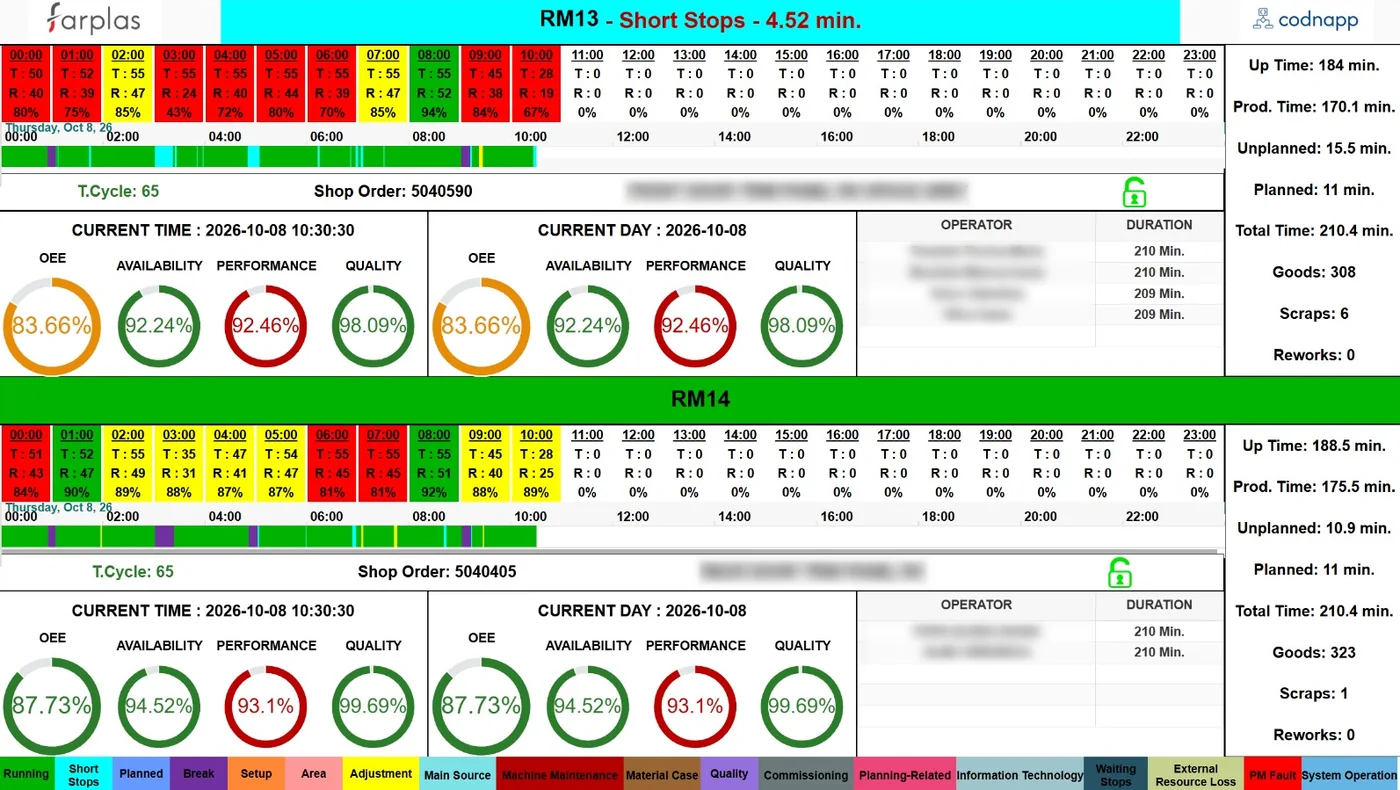
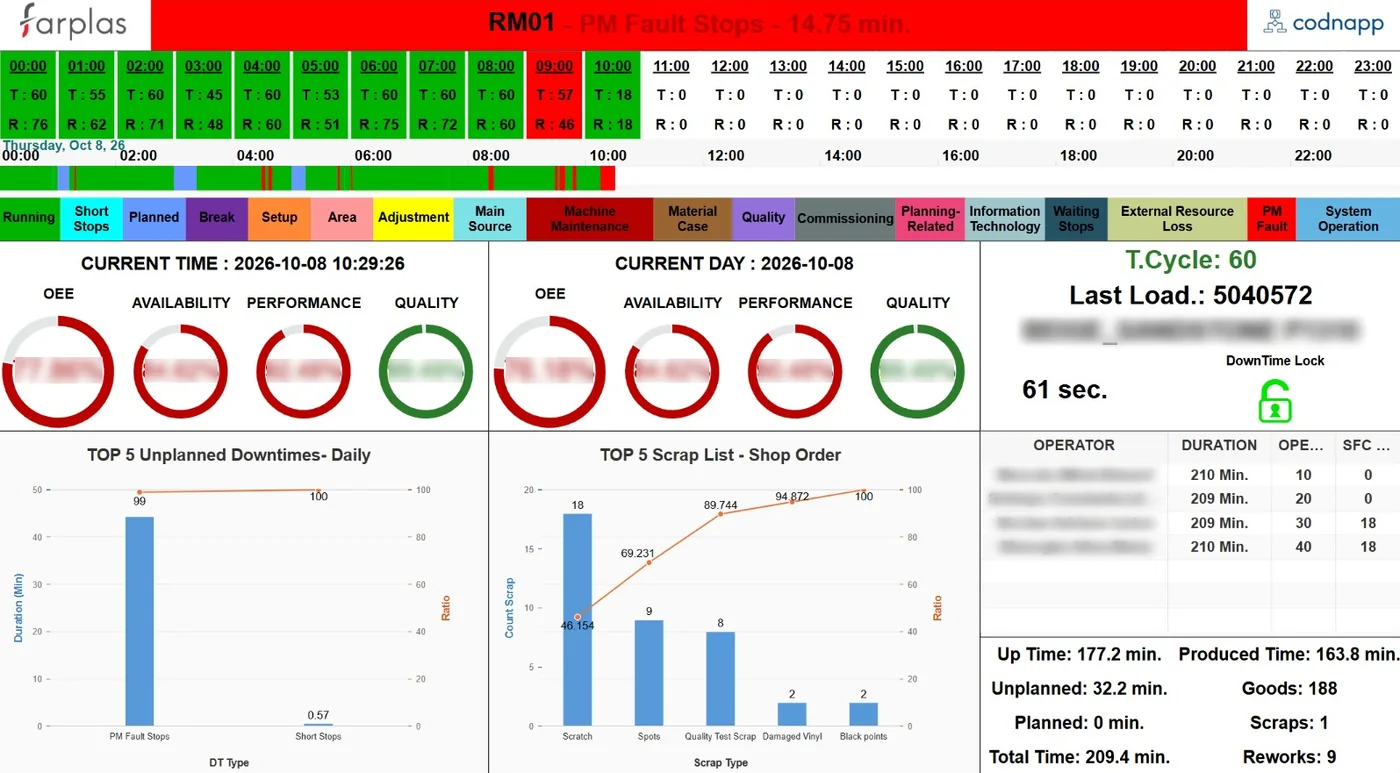
Add files via upload

diff --git a/_site/index.html b/_site/index.html
@@ -87,15 +87,15 @@
     <h2 id="musteri-baslik" class="sr-only">Müşterilerimiz</h2>
     <ul class="clients-list">
       
-      <li><img src="/assets/img/musteriler/aromsa.png" alt="Aromsa" width="151" height="38" style="--h:38px" loading="lazy"></li>
-      
       <li><img src="/assets/img/musteriler/farplas.png" alt="Farplas" width="125" height="44" style="--h:44px" loading="lazy"></li>
       
       <li><img src="/assets/img/musteriler/farplas-smart.png" alt="Farplas & Smart Solutions" width="158" height="35" style="--h:35px" loading="lazy"></li>
       
+      <li><img src="/assets/img/musteriler/polibak.png" alt="Polibak" width="121" height="47" style="--h:47px" loading="lazy"></li>
+      
       <li><img src="/assets/img/musteriler/kucukoglu.png" alt="Küçükoğlu Holding" width="167" height="33" style="--h:33px" loading="lazy"></li>
       
-      <li><img src="/assets/img/musteriler/polibak.png" alt="Polibak" width="121" height="47" style="--h:47px" loading="lazy"></li>
+      <li><img src="/assets/img/musteriler/aromsa.png" alt="Aromsa" width="151" height="38" style="--h:38px" loading="lazy"></li>
       
     </ul>
   </div>
@@ -126,7 +126,7 @@
             </figure>
             
             <figure class="slide" role="group" aria-roledescription="slide" aria-label="2 / 4">
-              <img src="/assets/img/urunler/codnapp-core-2.webp" alt="codnappCore ekranı: iki makinenin saatlik üretim, OEE ve operatör özeti" width="1400" height="790" loading="lazy">
+              <img src="/assets/img/urunler/codnapp-core-2.webp" alt="codnappCore ekranı: makine panosu, saatlik üretim, duruş ve hurda grafikleri" width="1400" height="773" loading="lazy">
             </figure>
             
             <figure class="slide" role="group" aria-roledescription="slide" aria-label="3 / 4">
@@ -272,7 +272,7 @@
       <p class="contact-item"><span class="contact-label">Telefon</span><a href="tel:+905457324208">+90 545 732 42 08</a></p>
       
       
-      <p class="contact-item"><span class="contact-label">LinkedIn</span><a href="https://www.linkedin.com/company/codnapp/" rel="noopener" target="_blank">linkedin.com/company/codnapp</a></p>
+      <p class="contact-item"><span class="contact-label">LinkedIn</span><a class="icon-link" href="https://www.linkedin.com/company/codnapp/" rel="noopener" target="_blank" aria-label="Codnapp LinkedIn sayfası"><svg viewBox="0 0 24 24" width="20" height="20" aria-hidden="true" focusable="false"><path fill="currentColor" d="M20.447 20.452h-3.554v-5.569c0-1.328-.027-3.037-1.852-3.037-1.853 0-2.136 1.445-2.136 2.939v5.667H9.351V9h3.414v1.561h.046c.477-.9 1.637-1.85 3.37-1.85 3.601 0 4.267 2.37 4.267 5.455v6.286zM5.337 7.433a2.062 2.062 0 0 1-2.063-2.065 2.064 2.064 0 1 1 2.063 2.065zm1.782 13.019H3.555V9h3.564v11.452zM22.225 0H1.771C.792 0 0 .774 0 1.729v20.542C0 23.227.792 24 1.771 24h20.451C23.2 24 24 23.227 24 22.271V1.729C24 .774 23.2 0 22.222 0h.003z"/></svg></a></p>
       
     </div>
   </div>

diff --git a/_site/assets/css/main.css b/_site/assets/css/main.css
@@ -166,6 +166,9 @@ h1{font-size:clamp(2.6rem,5.4vw,4.1rem);line-height:1.02}
 .person-links{margin:auto 0 0;padding-top:1rem}
 .icon-link{display:inline-flex;align-items:center;justify-content:center;width:40px;height:40px;border-radius:var(--radius);background:var(--brand);color:#fff;transition:background-color .15s ease}
 .icon-link:hover{background:var(--brand-mid)}
+.contact .icon-link{background:var(--sky);color:var(--brand-night)}
+.contact .icon-link:hover{background:#94CBFF;color:var(--brand-night)}
+.contact-item .icon-link{justify-self:start}
 
 /* ---- Ürünler ---- */
 .products{display:grid;gap:clamp(2rem,5vw,3.5rem)}
@@ -198,7 +201,7 @@ h1{font-size:clamp(2.6rem,5.4vw,4.1rem);line-height:1.02}
 .carousel-dot{position:relative;width:24px;height:24px;padding:0;border:0;background:none;cursor:pointer}
 .carousel-dot::before{content:"";position:absolute;inset:7px;border-radius:50%;background:#A9BCD0;transition:background-color .15s ease,transform .15s ease}
 .carousel-dot.is-active::before{background:var(--brand);transform:scale(1.15)}
-.media-logo{background:#fff;border:1px solid var(--line);aspect-ratio:16/8}
+.media-logo{background:#fff;border:1px solid var(--line);aspect-ratio:16/6.5}
 .media-logo img{width:min(78%,292px)}
 .media-mobil{aspect-ratio:auto;display:flex;align-items:center;justify-content:center;gap:.9rem}
 .media-mobil img{flex:1 1 0;min-width:0;width:100%;max-width:190px;height:auto;max-height:none;border-radius:16px;box-shadow:0 14px 36px rgba(5,41,77,.28)}
@@ -210,13 +213,13 @@ h1{font-size:clamp(2.6rem,5.4vw,4.1rem);line-height:1.02}
 .tech-grid img{display:block;width:var(--w);max-width:100%;height:auto;opacity:.9}
 
 /* ---- İletişim ---- */
-.contact{position:relative;background:linear-gradient(135deg,var(--brand-deep) 0%,var(--brand) 100%);color:var(--on-dark);border-top:0;overflow:hidden}
+.contact{padding:clamp(2.25rem,5vw,3.25rem) 0;position:relative;background:linear-gradient(135deg,var(--brand-deep) 0%,var(--brand) 100%);color:var(--on-dark);border-top:0;overflow:hidden}
 .contact::before{content:"";position:absolute;inset:0;background-image:linear-gradient(rgba(140,196,255,.08) 1px,transparent 1px),linear-gradient(90deg,rgba(140,196,255,.08) 1px,transparent 1px);background-size:44px 44px;pointer-events:none}
 .contact .wrap{position:relative}
 .contact h2{color:#fff}
 .contact .split-head p{color:var(--on-dark-muted)}
 .contact a{color:var(--sky)}
-.contact-item{display:grid;grid-template-columns:7rem minmax(0,1fr);gap:.25rem 1rem;margin:0;padding:1.05rem 0;border-top:1px solid var(--dark-line);font-size:1.15rem}
+.contact-item{display:grid;grid-template-columns:7rem minmax(0,1fr);gap:.25rem 1rem;margin:0;padding:.8rem 0;border-top:1px solid var(--dark-line);font-size:1.15rem}
 .contact-item:last-child{border-bottom:1px solid var(--dark-line)}
 .contact-label{color:var(--on-dark-muted);font-size:.95rem;padding-top:.2rem}
 .contact-item a{overflow-wrap:anywhere}
